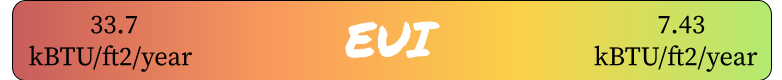
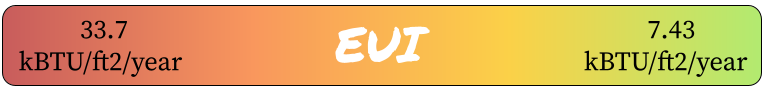
Bar style

diff --git a/style.css b/style.css
@@ -174,9 +174,9 @@ svg{
 }
 #EUI{
     position: absolute;
-    height: 4%;
-    top:90%;
-    left: 12.5%;
+    height: 6.35%;
+    top:0%;
+    left: 12.4%;
     z-index: 3;
 }
 
